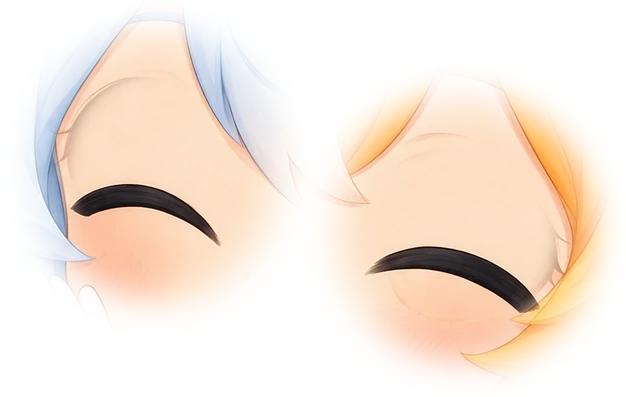
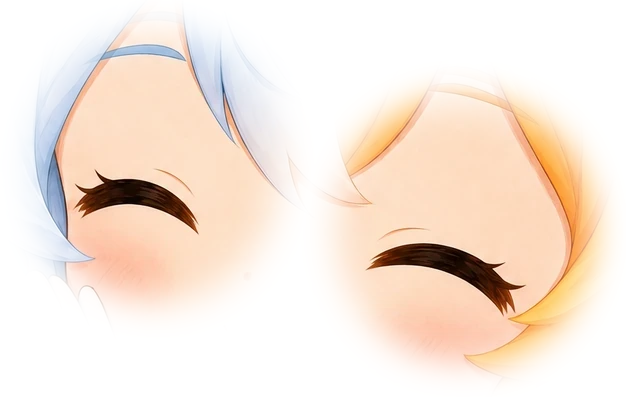
Demo04 conductor: clean blinks in ear / holo / wave (Seedance redraw of the eye area; no faint open-eye rings)

diff --git a/demos/all-ages/Demo04_SeasonsExpress/media/layers.js b/demos/all-ages/Demo04_SeasonsExpress/media/layers.js
@@ -27,7 +27,7 @@ window.MOHEAT_LAYERS = {
    },
    "patches": [
     {
-     "src": "art/holo_eyes.webp?v=d3fc3305",
+     "src": "art/holo_eyes.webp?v=9e873d3a",
      "rect": [
       202,
       422,
@@ -108,7 +108,7 @@ window.MOHEAT_LAYERS = {
    },
    "patches": [
     {
-     "src": "art/wave_eyes.webp?v=8816197b",
+     "src": "art/wave_eyes.webp?v=969e72c2",
      "rect": [
       247,
       316,
@@ -189,7 +189,7 @@ window.MOHEAT_LAYERS = {
    },
    "patches": [
     {
-     "src": "art/ear_eyes.webp?v=b2a6ee16",
+     "src": "art/ear_eyes.webp?v=2794fcf0",
      "rect": [
       176,
       576,
